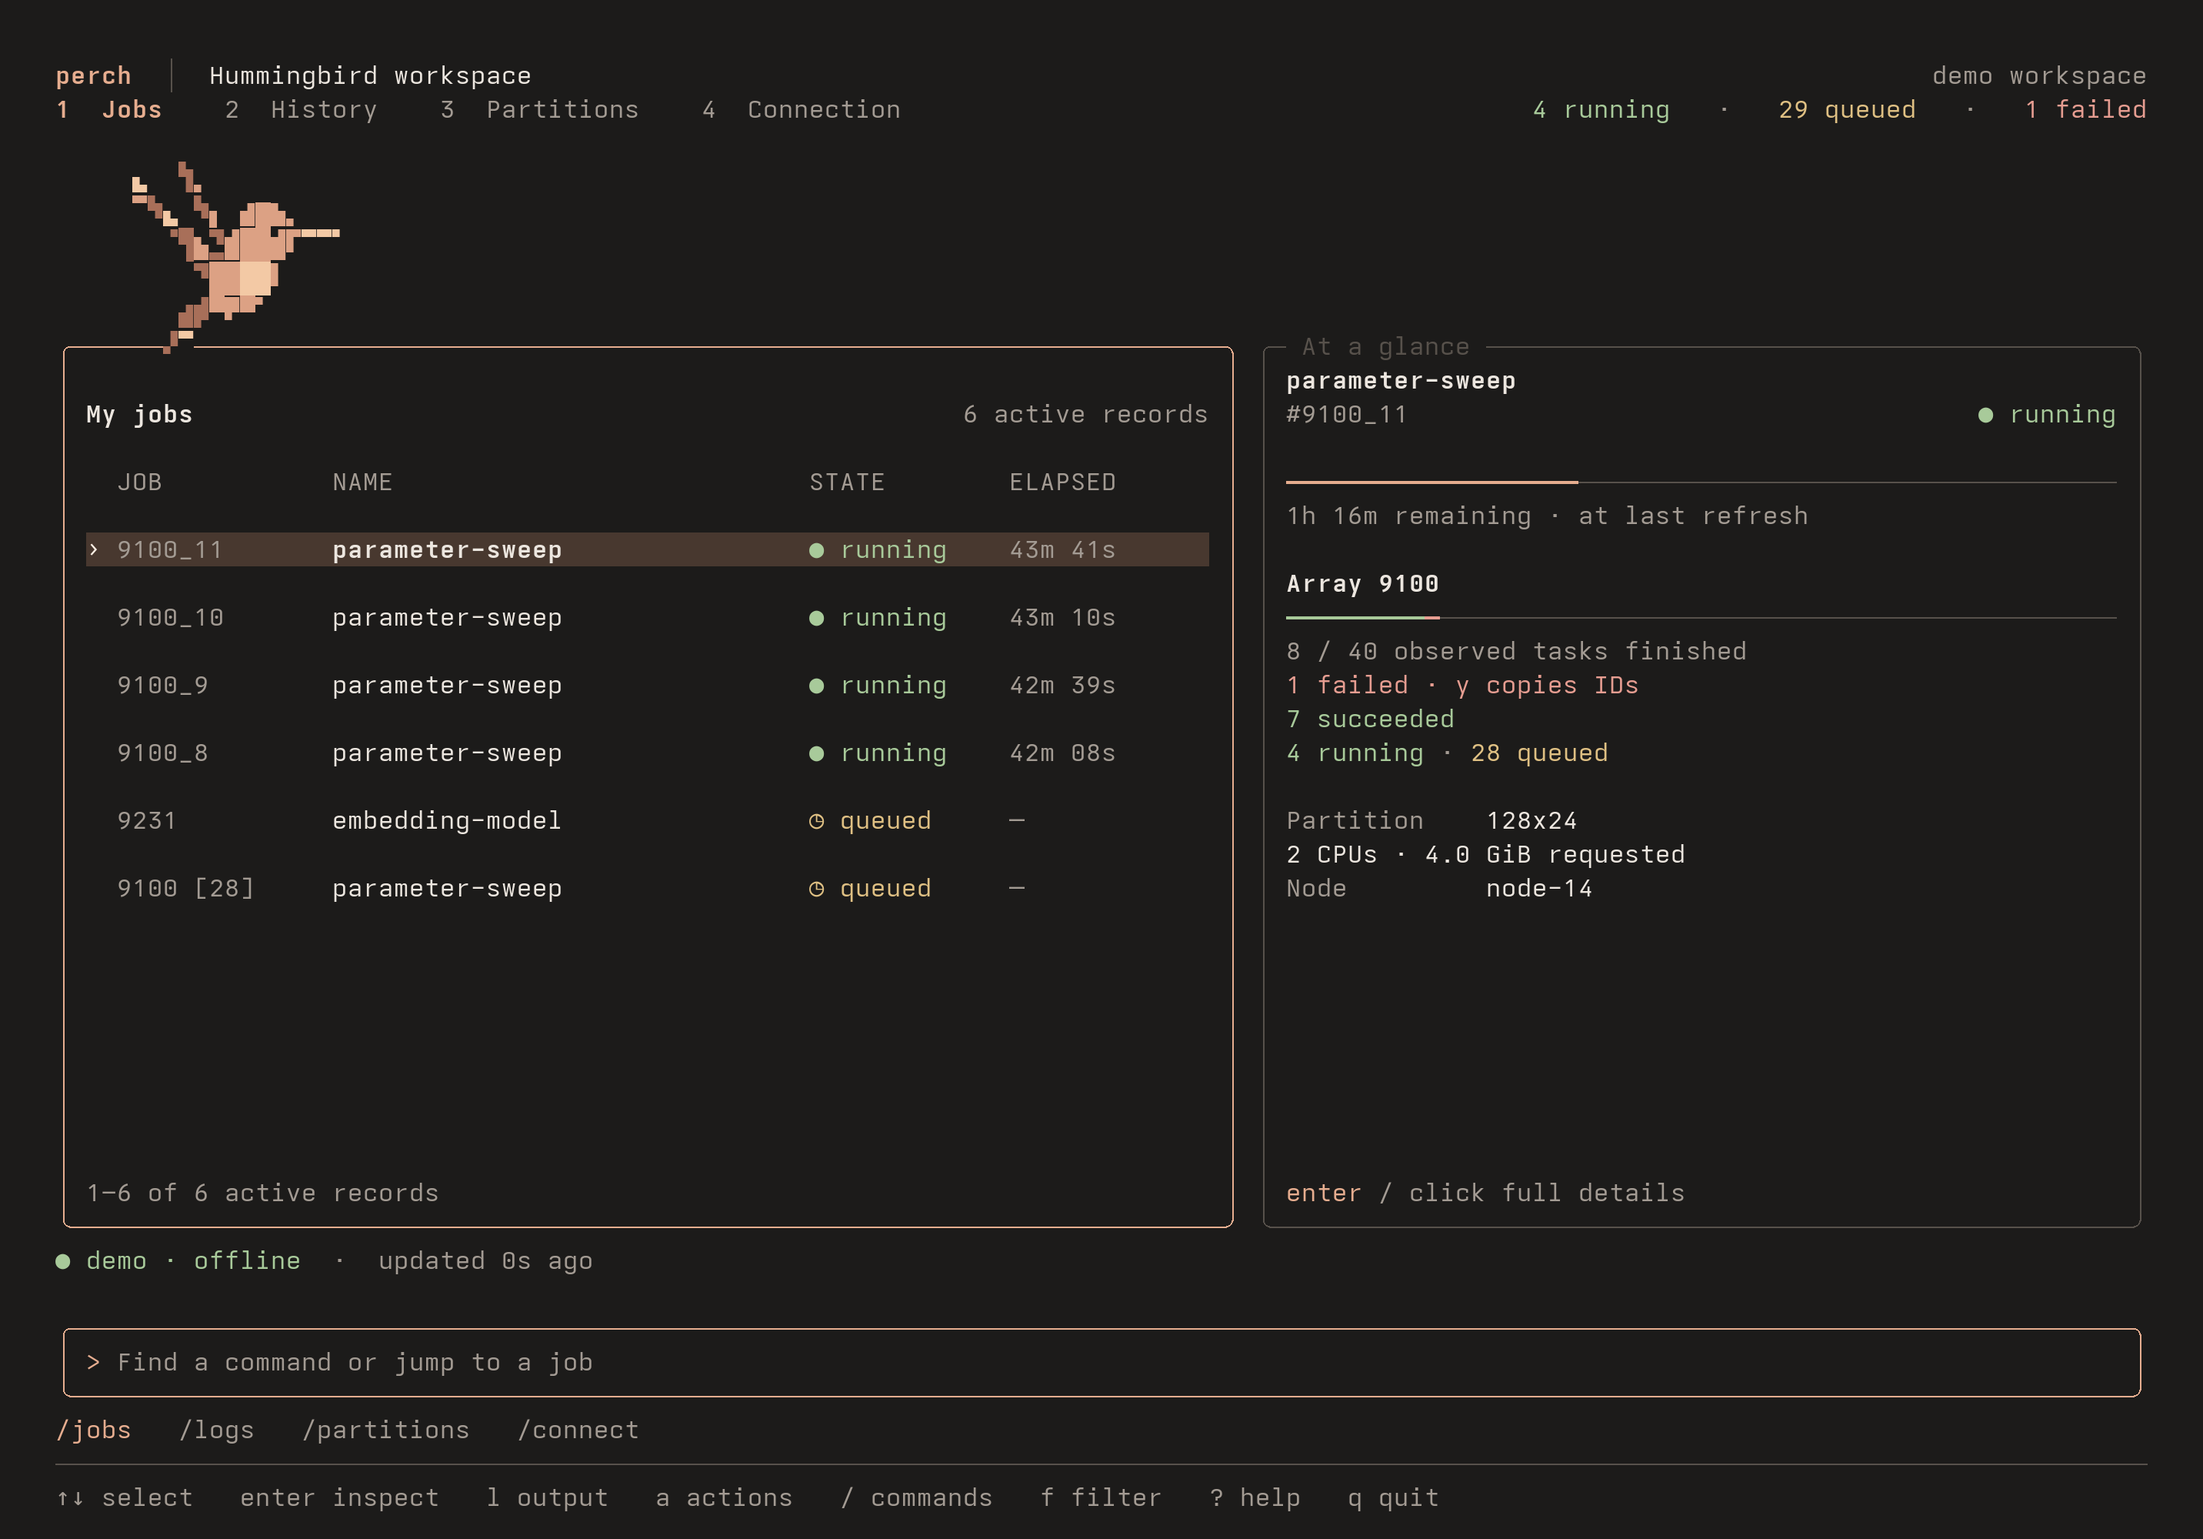
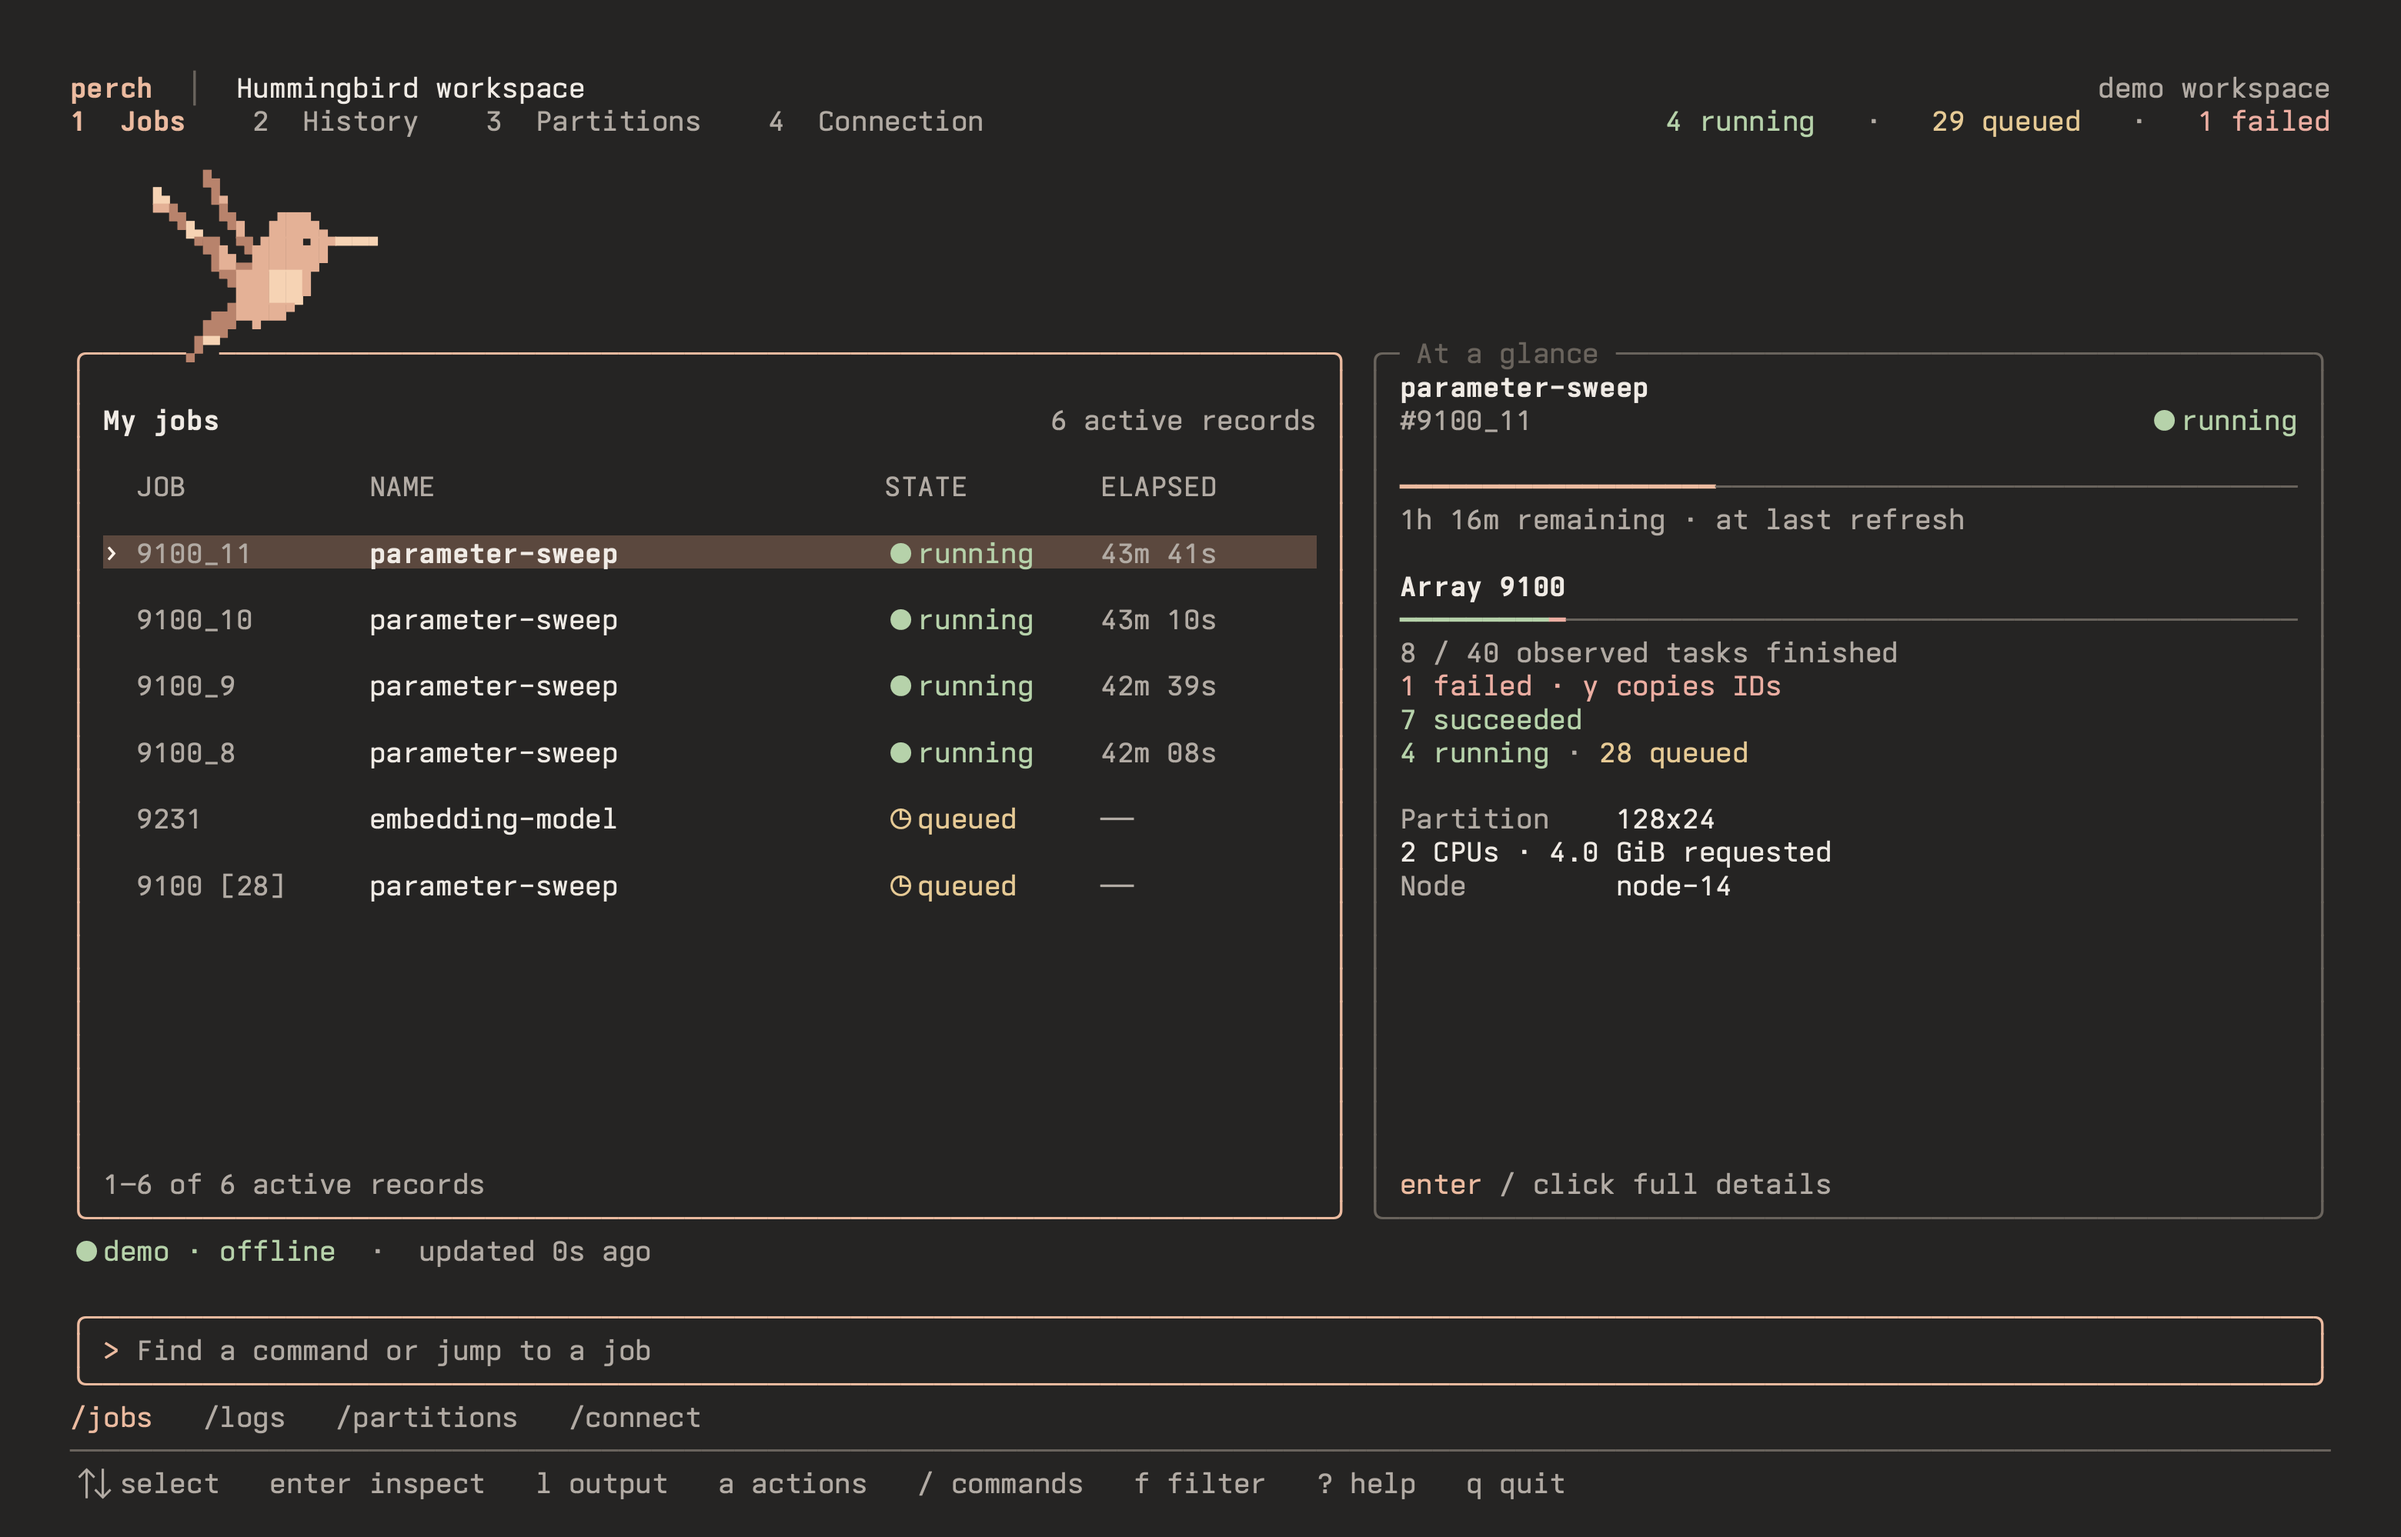
Render animated workspace with approved Ioskeley profile

diff --git a/tools/render_readme.swift b/tools/render_readme.swift
@@ -1,0 +1,88 @@
+// Render a captured VT screen with the approved profile's actual macOS font.
+// Offline CoreText drawing only; this does not access or control Terminal.app.
+import AppKit
+import CoreText
+
+struct Cell: Decodable {
+    let text: String
+    let foreground: String
+    let background: String
+    let bold: Bool
+    let underline: Bool
+}
+struct Screen: Decodable {
+    let columns: Int
+    let rows: Int
+    let cells: [[Cell]]
+}
+let args = CommandLine.arguments
+precondition(args.count == 5, "render_readme screens.json profile.terminal output-directory scale")
+let screens = try JSONDecoder().decode([Screen].self, from: Data(contentsOf: URL(fileURLWithPath: args[1])))
+let profile = try PropertyListSerialization.propertyList(from: Data(contentsOf: URL(fileURLWithPath: args[2])), format: nil) as! [String: Any]
+let profileFont = try NSKeyedUnarchiver.unarchivedObject(ofClass: NSFont.self, from: profile["Font"] as! Data)!
+func loadFont(_ filename: String) -> NSFont {
+    let url = FileManager.default.homeDirectoryForCurrentUser.appendingPathComponent("Library/Fonts/" + filename)
+    guard let provider = CGDataProvider(url: url as CFURL), let graphicsFont = CGFont(provider) else {
+        fatalError("Install the approved font at " + url.path)
+    }
+    CTFontManagerRegisterFontsForURL(url as CFURL, .process, nil)
+    return CTFontCreateWithGraphicsFont(graphicsFont, profileFont.pointSize, nil, nil) as NSFont
+}
+let font = loadFont("IoskeleyMono-Regular.ttf")
+let bold = loadFont("IoskeleyMono-Bold.ttf")
+let spacing = CGFloat(profile["FontHeightSpacing"] as! Double)
+let widthSpacing = CGFloat(profile["FontWidthSpacing"] as! Double)
+let scale = CGFloat(Double(args[4])!)
+let cellWidth = ("M" as NSString).size(withAttributes: [.font: font]).width * widthSpacing
+let naturalHeight = NSLayoutManager().defaultLineHeight(for: font)
+let cellHeight = naturalHeight * spacing
+let padding: CGFloat = 16
+func render(_ screen: Screen, to output: URL) throws {
+let width = ceil(CGFloat(screen.columns) * cellWidth + 2 * padding)
+let height = ceil(CGFloat(screen.rows) * cellHeight + 2 * padding)
+let context = CGContext(data: nil, width: Int(width * scale), height: Int(height * scale), bitsPerComponent: 8, bytesPerRow: 0, space: CGColorSpace(name: CGColorSpace.sRGB)!, bitmapInfo: CGImageAlphaInfo.premultipliedLast.rawValue)!
+context.scaleBy(x: scale, y: scale)
+func color(_ hex: String) -> CGColor {
+    let value = UInt32(hex, radix: 16)!
+    return CGColor(red: CGFloat((value >> 16) & 255) / 255, green: CGFloat((value >> 8) & 255) / 255, blue: CGFloat(value & 255) / 255, alpha: 1)
+}
+context.setFillColor(color("1c1b1a"))
+context.fill(CGRect(x: 0, y: 0, width: width, height: height))
+context.setShouldAntialias(false)
+// Paint all cell backgrounds first so the next row cannot erase glyph overhangs.
+for (row, cells) in screen.cells.enumerated() {
+    for (column, cell) in cells.enumerated() {
+        context.setFillColor(color(cell.background))
+        context.fill(CGRect(x: padding + CGFloat(column) * cellWidth, y: height - padding - CGFloat(row + 1) * cellHeight, width: cellWidth, height: cellHeight))
+    }
+}
+context.setShouldAntialias(true)
+for (row, cells) in screen.cells.enumerated() {
+    for (column, cell) in cells.enumerated() {
+        let face = cell.bold ? bold : font
+        let x = padding + CGFloat(column) * cellWidth
+        let bottom = height - padding - CGFloat(row + 1) * cellHeight
+        // Center the font's ascent/descent in the profile's cell height.
+        let baseline = bottom + (cellHeight - face.ascender + face.descender) / CGFloat(2) - face.descender
+        if cell.text != " " && !cell.text.isEmpty {
+            let attributes: [NSAttributedString.Key: Any] = [.font: face, .foregroundColor: NSColor(cgColor: color(cell.foreground))!]
+            let line = CTLineCreateWithAttributedString(NSAttributedString(string: cell.text, attributes: attributes))
+            context.textMatrix = .identity
+            context.textPosition = CGPoint(x: x, y: baseline)
+            CTLineDraw(line, context)
+        }
+        if cell.underline {
+            context.setFillColor(color(cell.foreground))
+            context.fill(CGRect(x: x, y: baseline + face.underlinePosition, width: cellWidth, height: max(1 / scale, face.underlineThickness)))
+        }
+    }
+}
+let bitmap = NSBitmapImageRep(cgImage: context.makeImage()!)
+try bitmap.representation(using: .png, properties: [:])!.write(to: output)
+}
+let directory = URL(fileURLWithPath: args[3])
+try FileManager.default.createDirectory(at: directory, withIntermediateDirectories: true)
+for (index, screen) in screens.enumerated() {
+    try render(screen, to: directory.appendingPathComponent(String(format: "frame-%03d.png", index)))
+}
+print("\(font.fontName) \(font.pointSize) pt; natural height \(naturalHeight), spacing \(spacing), cell \(cellWidth) × \(cellHeight), \(scale)× raster; \(screens.count) frames")

diff --git a/tools/render_readme.py b/tools/render_readme.py
@@ -1,0 +1,77 @@
+#!/usr/bin/env python3
+"""Capture the real offline workspace with the approved font and spacing.
+
+macOS development tool using installed Ioskeley and offline CoreText drawing.
+Does not control Terminal.app, change settings, or fabricate glyph geometry.
+Run with --animate to capture a 64-frame, 40 ms wingbeat loop as a GIF.
+"""
+import argparse
+import json
+from pathlib import Path
+import shutil
+import subprocess
+import tempfile
+import time
+from PIL import Image
+from test_terminal import Session, ROOT
+
+parser = argparse.ArgumentParser(description=__doc__)
+parser.add_argument('--animate', action='store_true')
+args = parser.parse_args()
+out = ROOT / 'output' / 'readme' / ('animated' if args.animate else 'static')
+out.mkdir(parents=True, exist_ok=True)
+arguments = ['--demo', '--no-config']
+if not args.animate:
+    arguments.append('--reduced-motion')
+s = Session(arguments, width=140, height=44)
+
+def capture():
+    def rgb(value, default):
+        return value if len(value) == 6 and all(c in '0123456789abcdefABCDEF' for c in value) else default
+    rows = []
+    for y in range(s.height):
+        cells = []
+        for x in range(s.width):
+            c = s.screen.buffer[y][x]
+            fg, bg = rgb(c.fg, 'ece6df'), rgb(c.bg, '1c1b1a')
+            if c.reverse:
+                fg, bg = bg, fg
+            cells.append(dict(text=c.data, foreground=fg, background=bg, bold=c.bold, underline=c.underscore))
+        rows.append(cells)
+    return dict(columns=s.width, rows=s.height, cells=rows)
+
+try:
+    s.wait('parameter-sweep')
+    start = time.monotonic()
+    screens = []
+    for index in range(64 if args.animate else 1):
+        s.pump(max(0, start + index * .04 - time.monotonic()))
+        screens.append(capture())
+    (out / 'screens.json').write_text(json.dumps(screens))
+    (out / 'screen.txt').write_text(s.text)
+    s.close()
+except BaseException:
+    s.abort()
+    raise
+with tempfile.TemporaryDirectory(prefix='perch-coretext-') as cache:
+    subprocess.run(['swift', '-module-cache-path', cache, str(ROOT / 'tools/render_readme.swift'),
+                    str(out / 'screens.json'), str(ROOT / 'docs/terminal/Perch-Ioskeley.terminal'),
+                    str(out), '2' if args.animate else '3'], check=True)
+if args.animate:
+    frames = [Image.open(out / f'frame-{i:03d}.png').convert('RGB') for i in range(len(screens))]
+    # Share one palette across frames to avoid shimmering text and color shifts.
+    palette = frames[0].quantize(colors=256)
+    indexed = [frame.quantize(palette=palette, dither=Image.Dither.NONE) for frame in frames]
+    indexed[0].save(out / 'workspace.gif', save_all=True, append_images=indexed[1:],
+                    duration=40, loop=0, optimize=True, disposal=1)
+    with Image.open(out / 'workspace.gif') as gif:
+        count = gif.n_frames
+        duration = 0
+        for i in range(count):
+            gif.seek(i)
+            duration += gif.info['duration']
+        assert count > 8 and duration == len(screens) * 40
+        print(f'GIF verified: {gif.size}, {count} encoded frames, {duration} ms, {(out / "workspace.gif").stat().st_size} bytes')
+else:
+    shutil.copyfile(out / 'frame-000.png', out / 'workspace.png')
+print(out)

diff --git a/README.md b/README.md
@@ -10,7 +10,7 @@
   <a href="docs/READINESS.md">Release status</a>
 </p>
 
-![Perch’s warm charcoal workspace with jobs, array progress, and Chip perched above the list](docs/media/workspace.png)
+![Perch’s warm charcoal workspace with jobs, array progress, and Chip perched above the list](docs/media/workspace.gif)
 
 Perch brings UCSC Hummingbird into one terminal workspace: prepare a workload,
 follow its progress, read its output, and open a shell inside its allocation.
@@ -102,8 +102,9 @@ VERSION=dev make release-check   # Four local archives; publishes nothing
 [Architecture](ARCHITECTURE.md) · [Release checklist](docs/RELEASING.md) ·
 [Validation history](docs/VALIDATION-HISTORY.md) · [Chip artwork](assets/bird/README.md)
 
-The workspace image is an emulator render of the real offline demo, using
-Ioskeley. Native appearance depends on your terminal. Hummingbird is the active
+The workspace preview is a looping capture of the real offline demo, rendered
+with Ioskeley at 12 pt and 0.90 line spacing through macOS CoreText.
+[View the still image](docs/media/workspace.png). Native appearance depends on your terminal. Hummingbird is the active
 product scope; existing [NRP experiments](docs/NRP.md) are preserved but deferred.
 
 Private preview. A public project/artwork license has not been selected.

diff --git a/docs/media/README.md b/docs/media/README.md
@@ -1,0 +1,23 @@
+# Workspace preview assets
+
+`workspace.gif` captures the real demo TUI through a PTY: 64 samples at 40 ms,
+then rasterizes its cells with installed Ioskeley regular/bold through macOS
+CoreText. Font size and line spacing come from the approved Terminal profile
+(12 pt, 0.90; 7.2 by 14.4 point cells). It is an emulator rendering, not a native
+Terminal.app screenshot. No application interface or font settings are changed.
+
+The 2080 by 1332 GIF loops every 2.56 seconds, using a shared palette and optimized
+frame differences. Identical samples may be coalesced while preserving duration.
+`workspace.png` is a 3120 by 1998 still captured with reduced motion. Both keep
+Chip's original source proportions and actual font glyphs.
+
+To regenerate on macOS with Ioskeley installed:
+
+```sh
+.venv/bin/python tools/render_readme.py --animate
+.venv/bin/python tools/render_readme.py
+```
+
+Review the generated assets in `output/readme/animated` and `output/readme/static`
+before copying them into this directory. The original detailed Chip artwork in
+`assets/bird` remains unchanged.
